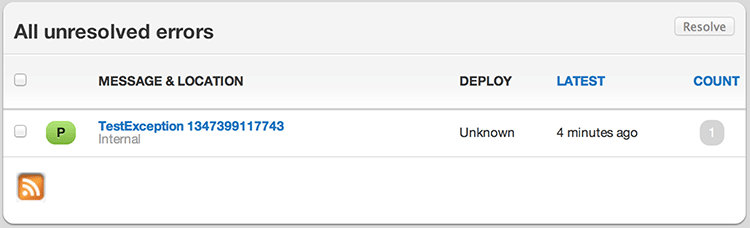
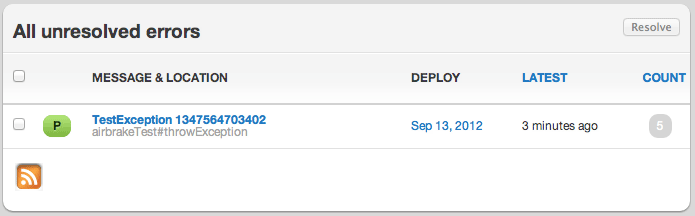
Site updated at 2012-09-13 19:41:56 UTC

diff --git a/index.html b/index.html
@@ -7,7 +7,7 @@
     <meta name="author" content="Eric Berry">
 
     
-    <meta name="description" content="Airbrake Exception Logging in Your Grails Application Disclaimer This article covers the use of the Airbrake Java library. Since then, I have &hellip;">
+    <meta name="description" content="Airbrake Exception Logging in Your Grails Application Airbrake has a Java library that can be used in your Grails application fairly easily. A &hellip;">
     
     <meta name="viewport" content="width=device-width; initial-scale=1; maximum-scale=1">
 
@@ -85,36 +85,27 @@
     <article class="post">
     <h1 class="title"><a href="/blog/2012/09/11/airbrake-exception-logging-in-your-grails-application/">Airbrake Exception Logging in Your Grails Application</a></h1>
     <div class="entry">
-        <blockquote>
-  <h4 style="margin-top: 0px;">Disclaimer</h4>
-  This article covers the use of the Airbrake Java library. Since then, I have published a Grails plugin which provides additional data to
-  Airbrake. The plugin can be found at <a href="http://cavneb.github.com/airbrake-grails/">http://cavneb.github.com/airbrake-grails</a>
-</blockquote>
+        <p>Airbrake has a Java library that can be used in your Grails application fairly easily. A couple of items that the library doesn&#8217;t do is make it simple to pass session / request data to Airbrake. I also found that the backtrace is somewhat jumbled when viewing it on Airbrake. <a href="https://github.com/plecong/grails-airbrake">Phuong LeCong</a> wrote an excellent plugin to enhance the library. I have recently published an <a href="https://github.com/cavneb/airbrake-grails">updated version</a> of the plugin (with Phuong&#8217;s consent) to the <a href="http://grails.org/plugin/airbrake">Grails plugin repository</a>.</p>
 
-
-<p>Recently I worked on migrating the Airbrake plugin written by <a href="https://github.com/plecong/grails-airbrake">Phuong LeCong</a> to Grails version 2.1 (<a href="https://github.com/cavneb/airbrake-grails">repo here</a>). After completing the plugin, I attempted to submit it to the Grails plugin repo via the <a href="http://grails.1312388.n4.nabble.com/Permission-to-publish-plugin-td4634449.html">developer mailing list</a>.</p>
-
-<p><a href="[@bostanio](http://twitter.com/bostanio">Jon Palmer</a>) brought to my attention that there is a Java library that is being used to accomplish this task. I had searched prior for a solution that would work with Grails, but I didn&#8217;t find any solid instructions on how to integrate the Java Airbrake library into my Grails apps.</p>
-
-<p>So here it is.</p>
+<p>Let&#8217;s take a look at how simple it is to use.</p>
 
 <h3>Installation</h3>
 
-<p>The Airbrake Java library exists in the Maven repo (<a href="http://mvnrepository.com/artifact/io.airbrake/airbrake-java/2.2.0">http://mvnrepository.com/artifact/io.airbrake/airbrake-java/2.2.0</a>) and can be installed by simple adding the following as a runtime dependency in your <code>BuildConfig.groovy</code> file:</p>
+<p>Installation is very simple. Simply add the plugin to your <code>BuildConfig.groovy</code> file:</p>
 
 <figure class='code'><div class="highlight"><table><tr><td class="gutter"><pre class="line-numbers"><span class='line-number'>1</span>
 <span class='line-number'>2</span>
 <span class='line-number'>3</span>
-</pre></td><td class='code'><pre><code class=''><span class='line'>dependencies {
-</span><span class='line'>    runtime 'io.airbrake:airbrake-java:2.2.0'
+</pre></td><td class='code'><pre><code class=''><span class='line'>plugins {
+</span><span class='line'>    runtime ":airbrake:0.4"
 </span><span class='line'>}</span></code></pre></td></tr></table></div></figure>
 
 
-<p>Next time your app compiles, the Airbrake library should be installed and ready to go.</p>
+<p>Next time your app compiles, the plugin should be installed and ready to go.</p>
 
 <h3>Integration</h3>
 
-<p>It&#8217;s nearly as simple to integrate the Airbrake exception notification process into your Grails application. This is done by adding a log4j appender into your <code>Config.groovy</code> file. Make sure that you update the appender config with the correct project API key from Airbrake.</p>
+<p>It&#8217;s nearly as simple to integrate the notification process into your Grails application. This is done by adding a log4j appender into your <code>Config.groovy</code> file. Make sure that you update the appender config with the correct project API key from Airbrake.</p>
 
 <figure class='code'><div class="highlight"><table><tr><td class="gutter"><pre class="line-numbers"><span class='line-number'>1</span>
 <span class='line-number'>2</span>
@@ -126,13 +117,17 @@
 <span class='line-number'>8</span>
 <span class='line-number'>9</span>
 <span class='line-number'>10</span>
-</pre></td><td class='code'><pre><code class=''><span class='line'>log4j = {
+<span class='line-number'>11</span>
+<span class='line-number'>12</span>
+</pre></td><td class='code'><pre><code class=''><span class='line'>def isProd = Environment.current == Environment.PRODUCTION
+</span><span class='line'>
+</span><span class='line'>log4j = {
 </span><span class='line'>  // Example of changing the log pattern for the default console appender:
 </span><span class='line'>  appenders {
-</span><span class='line'>    appender new airbrake.AirbrakeAppender (
+</span><span class='line'>    appender grails.plugins.airbrake.AirbrakeAppender (
 </span><span class='line'>      name: 'airbrake', 
 </span><span class='line'>      api_key: 'API_KEY', // replace with your Airbrake API key
-</span><span class='line'>      env: ((Environment.current == Environment.PRODUCTION)  ? 'production' : 'development'),
+</span><span class='line'>      env: (isProd ? 'production' : 'development'),
 </span><span class='line'>      enabled: true
 </span><span class='line'>    )
 </span><span class='line'>    ...</span></code></pre></td></tr></table></div></figure>
@@ -156,13 +151,17 @@
 <span class='line-number'>14</span>
 <span class='line-number'>15</span>
 <span class='line-number'>16</span>
-</pre></td><td class='code'><pre><code class=''><span class='line'>log4j = {
+<span class='line-number'>17</span>
+<span class='line-number'>18</span>
+</pre></td><td class='code'><pre><code class=''><span class='line'>def isProd = Environment.current == Environment.PRODUCTION
+</span><span class='line'>
+</span><span class='line'>log4j = {
 </span><span class='line'>  // Example of changing the log pattern for the default console appender:
 </span><span class='line'>  appenders {
-</span><span class='line'>    appender new airbrake.AirbrakeAppender (
+</span><span class='line'>    appender grails.plugins.airbrake.AirbrakeAppender (
 </span><span class='line'>      name: 'airbrake', 
 </span><span class='line'>      api_key: 'API_KEY', // replace with your Airbrake API key
-</span><span class='line'>      env: ((Environment.current == Environment.PRODUCTION)  ? 'production' : 'development'),
+</span><span class='line'>      env: (isProd ? 'production' : 'development'),
 </span><span class='line'>      enabled: true
 </span><span class='line'>    )
 </span><span class='line'>    ...
@@ -178,29 +177,9 @@
 
 <h3>Testing</h3>
 
-<p>To test the Airbrake exception notification, an exception must be thrown in your application when running. A good way to do this (although not ideal) is to create a controller with an action that throws an exception. I added this action to an existing controller, which again isn&#8217;t ideal.</p>
+<p>To test the Airbrake exception notification, an exception must be thrown in your application when running. The plugin offers a simple way to generate an exception without mucking around with your code.</p>
 
-<p>Here&#8217;s an example controller and action:</p>
-
-<figure class='code'><div class="highlight"><table><tr><td class="gutter"><pre class="line-numbers"><span class='line-number'>1</span>
-<span class='line-number'>2</span>
-<span class='line-number'>3</span>
-<span class='line-number'>4</span>
-<span class='line-number'>5</span>
-<span class='line-number'>6</span>
-<span class='line-number'>7</span>
-<span class='line-number'>8</span>
-</pre></td><td class='code'><pre><code class=''><span class='line'>class AirbrakeTestController {
-</span><span class='line'>
-</span><span class='line'>  def simulateError() {
-</span><span class='line'>    session.myval = "Something in the Session!"
-</span><span class='line'>    throw new Exception("TestException ${System.currentTimeMillis()}")
-</span><span class='line'>  }
-</span><span class='line'>
-</span><span class='line'>}</span></code></pre></td></tr></table></div></figure>
-
-
-<p>Once this is created, run your application and visit <a href="http://localhost:8080/airbrakeTest/simulateError">http://localhost:8080/airbrakeTest/simulateError</a>. You should see a page similar to this:</p>
+<p>To force an exception, run your application and visit <a href="http://localhost:8080/airbrakeTest/simulateError">http://localhost:8080/airbrakeTest/throwException</a>. You should see a page similar to this:</p>
 
 <div style="padding: 20px; 
       background: white; 
@@ -209,7 +188,6 @@
       -moz-border-radius: 5px;
       border-radius: 5px;">
   <img src="/images/posts/airbrake-grails-exception.png" style="display: block;"/>
-  <em>As you can see, I placed the action in another controller</em>
 </div>
 
 
@@ -226,19 +204,9 @@
 </div>
 
 
-<p>The data provided in the backtrace is a little weak and unformatted, and you can&#8217;t see anywhere the contents of the session. It does however notify you when an exception is thrown and performs the goodness that Airbrake provides.</p>
+<p>As you can see, not only is the stacktrace available, but also the request parameters and the session data.</p>
 
-<h3>Afterthoughts</h3>
-
-<p>The plugin I had submitted to the Grails plugin repository added a few extra goodies to the Airbrake notifications, primarily enhanced backtraces and session/request data. This isn&#8217;t available in the Airbrake java library mentioned above.</p>
-
-<p>After submitting the request to the mailing list, I received a couple of questions to the validity of the plugin, and then&#8230; nothing. I replied with reasons it&#8217;s worth it, but there was no acceptance in place. I guess I could have pushed it to brute force my plugin into the repository, but to what end? I have a strong background with <a href="https://www.google.com/#q=%22eric+berry%22+%2B+ruby">Ruby</a> and <a href="http://shop.oreilly.com/product/9780596520717.do">Rails</a>, and am an active member of the <a href="http://utruby.org/">Ruby community</a>. Not once have I felt that my contribution to their community has been rejected. I can&#8217;t help but feel this from my experience with the Grails community.</p>
-
-<p>That being said, I have worked with some of the core developers of Grails and they share my concerns. They have very little to do with it, and have little control to change things. The new changes at <a href="http://beta.grails.org/plugins">http://beta.grails.org</a> should promote more interaction in regards to plugins, but who knows.</p>
-
-<p>Here are my parting words:</p>
-
-<p><strong>Don&#8217;t take the time to write a plugin which is intended for public use until AFTER you get it approved from the Grails developer mailing list.</strong></p>
+<p>I wanted to thank <a href="https://github.com/plecong/grails-airbrake">Phuong LeCong</a> for his hard work on this. I also appreciate the Grails community, especially the core contributors for the hard work they do to keep us all happy developers.</p>
 
         
         

diff --git a/blog/2012/09/11/airbrake-exception-logging-in-your-grails-application/index.html b/blog/2012/09/11/airbrake-exception-logging-in-your-grails-application/index.html
@@ -7,7 +7,7 @@
     <meta name="author" content="Eric Berry">
 
     
-    <meta name="description" content="Airbrake Exception Logging in Your Grails Application Disclaimer This article covers the use of the Airbrake Java library. Since then, I have &hellip;">
+    <meta name="description" content="Airbrake Exception Logging in Your Grails Application Airbrake has a Java library that can be used in your Grails application fairly easily. A &hellip;">
     
     <meta name="viewport" content="width=device-width; initial-scale=1; maximum-scale=1">
 
@@ -81,36 +81,27 @@
 
 	<div id="content" class="inner"><article class="post">
     <h1 class="title">Airbrake Exception Logging in Your Grails Application</h1>
-    <div class="entry"><blockquote>
-  <h4 style="margin-top: 0px;">Disclaimer</h4>
-  This article covers the use of the Airbrake Java library. Since then, I have published a Grails plugin which provides additional data to
-  Airbrake. The plugin can be found at <a href="http://cavneb.github.com/airbrake-grails/">http://cavneb.github.com/airbrake-grails</a>
-</blockquote>
+    <div class="entry"><p>Airbrake has a Java library that can be used in your Grails application fairly easily. A couple of items that the library doesn&#8217;t do is make it simple to pass session / request data to Airbrake. I also found that the backtrace is somewhat jumbled when viewing it on Airbrake. <a href="https://github.com/plecong/grails-airbrake">Phuong LeCong</a> wrote an excellent plugin to enhance the library. I have recently published an <a href="https://github.com/cavneb/airbrake-grails">updated version</a> of the plugin (with Phuong&#8217;s consent) to the <a href="http://grails.org/plugin/airbrake">Grails plugin repository</a>.</p>
 
-
-<p>Recently I worked on migrating the Airbrake plugin written by <a href="https://github.com/plecong/grails-airbrake">Phuong LeCong</a> to Grails version 2.1 (<a href="https://github.com/cavneb/airbrake-grails">repo here</a>). After completing the plugin, I attempted to submit it to the Grails plugin repo via the <a href="http://grails.1312388.n4.nabble.com/Permission-to-publish-plugin-td4634449.html">developer mailing list</a>.</p>
-
-<p><a href="[@bostanio](http://twitter.com/bostanio">Jon Palmer</a>) brought to my attention that there is a Java library that is being used to accomplish this task. I had searched prior for a solution that would work with Grails, but I didn&#8217;t find any solid instructions on how to integrate the Java Airbrake library into my Grails apps.</p>
-
-<p>So here it is.</p>
+<p>Let&#8217;s take a look at how simple it is to use.</p>
 
 <h3>Installation</h3>
 
-<p>The Airbrake Java library exists in the Maven repo (<a href="http://mvnrepository.com/artifact/io.airbrake/airbrake-java/2.2.0">http://mvnrepository.com/artifact/io.airbrake/airbrake-java/2.2.0</a>) and can be installed by simple adding the following as a runtime dependency in your <code>BuildConfig.groovy</code> file:</p>
+<p>Installation is very simple. Simply add the plugin to your <code>BuildConfig.groovy</code> file:</p>
 
 <figure class='code'><div class="highlight"><table><tr><td class="gutter"><pre class="line-numbers"><span class='line-number'>1</span>
 <span class='line-number'>2</span>
 <span class='line-number'>3</span>
-</pre></td><td class='code'><pre><code class=''><span class='line'>dependencies {
-</span><span class='line'>    runtime 'io.airbrake:airbrake-java:2.2.0'
+</pre></td><td class='code'><pre><code class=''><span class='line'>plugins {
+</span><span class='line'>    runtime ":airbrake:0.4"
 </span><span class='line'>}</span></code></pre></td></tr></table></div></figure>
 
 
-<p>Next time your app compiles, the Airbrake library should be installed and ready to go.</p>
+<p>Next time your app compiles, the plugin should be installed and ready to go.</p>
 
 <h3>Integration</h3>
 
-<p>It&#8217;s nearly as simple to integrate the Airbrake exception notification process into your Grails application. This is done by adding a log4j appender into your <code>Config.groovy</code> file. Make sure that you update the appender config with the correct project API key from Airbrake.</p>
+<p>It&#8217;s nearly as simple to integrate the notification process into your Grails application. This is done by adding a log4j appender into your <code>Config.groovy</code> file. Make sure that you update the appender config with the correct project API key from Airbrake.</p>
 
 <figure class='code'><div class="highlight"><table><tr><td class="gutter"><pre class="line-numbers"><span class='line-number'>1</span>
 <span class='line-number'>2</span>
@@ -122,13 +113,17 @@
 <span class='line-number'>8</span>
 <span class='line-number'>9</span>
 <span class='line-number'>10</span>
-</pre></td><td class='code'><pre><code class=''><span class='line'>log4j = {
+<span class='line-number'>11</span>
+<span class='line-number'>12</span>
+</pre></td><td class='code'><pre><code class=''><span class='line'>def isProd = Environment.current == Environment.PRODUCTION
+</span><span class='line'>
+</span><span class='line'>log4j = {
 </span><span class='line'>  // Example of changing the log pattern for the default console appender:
 </span><span class='line'>  appenders {
-</span><span class='line'>    appender new airbrake.AirbrakeAppender (
+</span><span class='line'>    appender grails.plugins.airbrake.AirbrakeAppender (
 </span><span class='line'>      name: 'airbrake', 
 </span><span class='line'>      api_key: 'API_KEY', // replace with your Airbrake API key
-</span><span class='line'>      env: ((Environment.current == Environment.PRODUCTION)  ? 'production' : 'development'),
+</span><span class='line'>      env: (isProd ? 'production' : 'development'),
 </span><span class='line'>      enabled: true
 </span><span class='line'>    )
 </span><span class='line'>    ...</span></code></pre></td></tr></table></div></figure>
@@ -152,13 +147,17 @@
 <span class='line-number'>14</span>
 <span class='line-number'>15</span>
 <span class='line-number'>16</span>
-</pre></td><td class='code'><pre><code class=''><span class='line'>log4j = {
+<span class='line-number'>17</span>
+<span class='line-number'>18</span>
+</pre></td><td class='code'><pre><code class=''><span class='line'>def isProd = Environment.current == Environment.PRODUCTION
+</span><span class='line'>
+</span><span class='line'>log4j = {
 </span><span class='line'>  // Example of changing the log pattern for the default console appender:
 </span><span class='line'>  appenders {
-</span><span class='line'>    appender new airbrake.AirbrakeAppender (
+</span><span class='line'>    appender grails.plugins.airbrake.AirbrakeAppender (
 </span><span class='line'>      name: 'airbrake', 
 </span><span class='line'>      api_key: 'API_KEY', // replace with your Airbrake API key
-</span><span class='line'>      env: ((Environment.current == Environment.PRODUCTION)  ? 'production' : 'development'),
+</span><span class='line'>      env: (isProd ? 'production' : 'development'),
 </span><span class='line'>      enabled: true
 </span><span class='line'>    )
 </span><span class='line'>    ...
@@ -174,29 +173,9 @@
 
 <h3>Testing</h3>
 
-<p>To test the Airbrake exception notification, an exception must be thrown in your application when running. A good way to do this (although not ideal) is to create a controller with an action that throws an exception. I added this action to an existing controller, which again isn&#8217;t ideal.</p>
+<p>To test the Airbrake exception notification, an exception must be thrown in your application when running. The plugin offers a simple way to generate an exception without mucking around with your code.</p>
 
-<p>Here&#8217;s an example controller and action:</p>
-
-<figure class='code'><div class="highlight"><table><tr><td class="gutter"><pre class="line-numbers"><span class='line-number'>1</span>
-<span class='line-number'>2</span>
-<span class='line-number'>3</span>
-<span class='line-number'>4</span>
-<span class='line-number'>5</span>
-<span class='line-number'>6</span>
-<span class='line-number'>7</span>
-<span class='line-number'>8</span>
-</pre></td><td class='code'><pre><code class=''><span class='line'>class AirbrakeTestController {
-</span><span class='line'>
-</span><span class='line'>  def simulateError() {
-</span><span class='line'>    session.myval = "Something in the Session!"
-</span><span class='line'>    throw new Exception("TestException ${System.currentTimeMillis()}")
-</span><span class='line'>  }
-</span><span class='line'>
-</span><span class='line'>}</span></code></pre></td></tr></table></div></figure>
-
-
-<p>Once this is created, run your application and visit <a href="http://localhost:8080/airbrakeTest/simulateError">http://localhost:8080/airbrakeTest/simulateError</a>. You should see a page similar to this:</p>
+<p>To force an exception, run your application and visit <a href="http://localhost:8080/airbrakeTest/simulateError">http://localhost:8080/airbrakeTest/throwException</a>. You should see a page similar to this:</p>
 
 <div style="padding: 20px; 
       background: white; 
@@ -205,7 +184,6 @@
       -moz-border-radius: 5px;
       border-radius: 5px;">
   <img src="/images/posts/airbrake-grails-exception.png" style="display: block;"/>
-  <em>As you can see, I placed the action in another controller</em>
 </div>
 
 
@@ -222,19 +200,9 @@
 </div>
 
 
-<p>The data provided in the backtrace is a little weak and unformatted, and you can&#8217;t see anywhere the contents of the session. It does however notify you when an exception is thrown and performs the goodness that Airbrake provides.</p>
+<p>As you can see, not only is the stacktrace available, but also the request parameters and the session data.</p>
 
-<h3>Afterthoughts</h3>
-
-<p>The plugin I had submitted to the Grails plugin repository added a few extra goodies to the Airbrake notifications, primarily enhanced backtraces and session/request data. This isn&#8217;t available in the Airbrake java library mentioned above.</p>
-
-<p>After submitting the request to the mailing list, I received a couple of questions to the validity of the plugin, and then&#8230; nothing. I replied with reasons it&#8217;s worth it, but there was no acceptance in place. I guess I could have pushed it to brute force my plugin into the repository, but to what end? I have a strong background with <a href="https://www.google.com/#q=%22eric+berry%22+%2B+ruby">Ruby</a> and <a href="http://shop.oreilly.com/product/9780596520717.do">Rails</a>, and am an active member of the <a href="http://utruby.org/">Ruby community</a>. Not once have I felt that my contribution to their community has been rejected. I can&#8217;t help but feel this from my experience with the Grails community.</p>
-
-<p>That being said, I have worked with some of the core developers of Grails and they share my concerns. They have very little to do with it, and have little control to change things. The new changes at <a href="http://beta.grails.org/plugins">http://beta.grails.org</a> should promote more interaction in regards to plugins, but who knows.</p>
-
-<p>Here are my parting words:</p>
-
-<p><strong>Don&#8217;t take the time to write a plugin which is intended for public use until AFTER you get it approved from the Grails developer mailing list.</strong></p>
+<p>I wanted to thank <a href="https://github.com/plecong/grails-airbrake">Phuong LeCong</a> for his hard work on this. I also appreciate the Grails community, especially the core contributors for the hard work they do to keep us all happy developers.</p>
 </div>
     <div class="meta">
         <div class="date">
